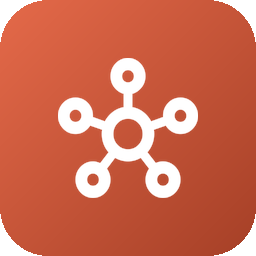
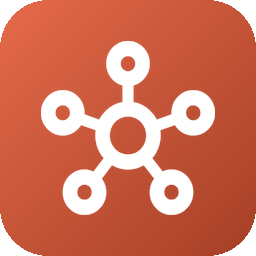
feat: 图标 hub 比例调大 (55%→68%) 更协调

Changed region(s): [[0.1562, 0.1562, 0.8438, 0.8438]]

diff --git a/scripts/generate-icons.py b/scripts/generate-icons.py
@@ -58,7 +58,7 @@ def _gradient_bg(size, c1=(0xE5, 0x6A, 0x4A), c2=(0xa6, 0x40, 0x27)):
 
 def _make_icon(size: int):
     bg = _gradient_bg(size)
-    hub = _hub_png(size).resize((int(size * 0.55), int(size * 0.55)), Image.LANCZOS)
+    hub = _hub_png(size).resize((int(size * 0.68), int(size * 0.68)), Image.LANCZOS)
     x = (size - hub.size[0]) // 2
     y = (size - hub.size[1]) // 2
     bg.paste(hub, (x, y), hub)
